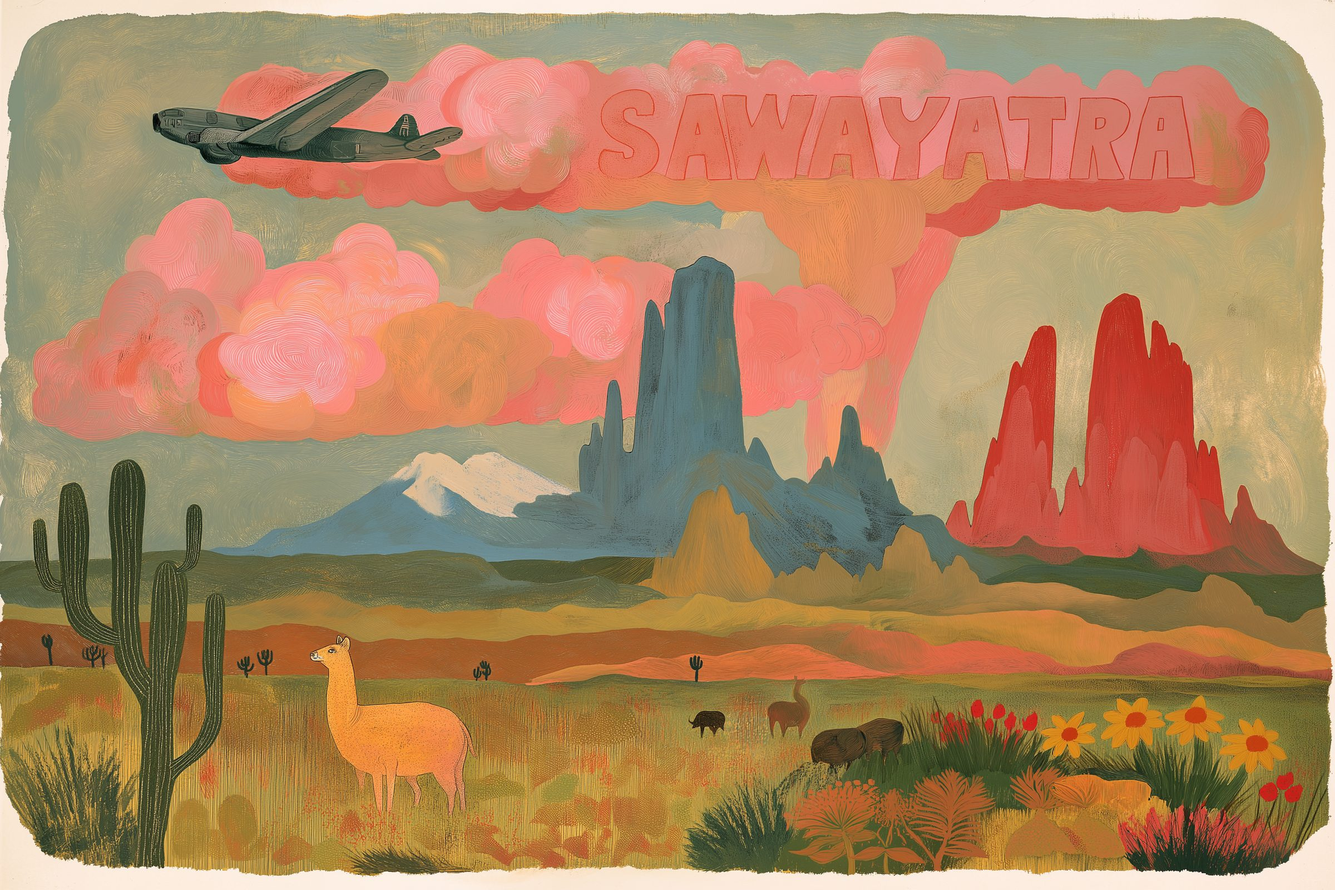
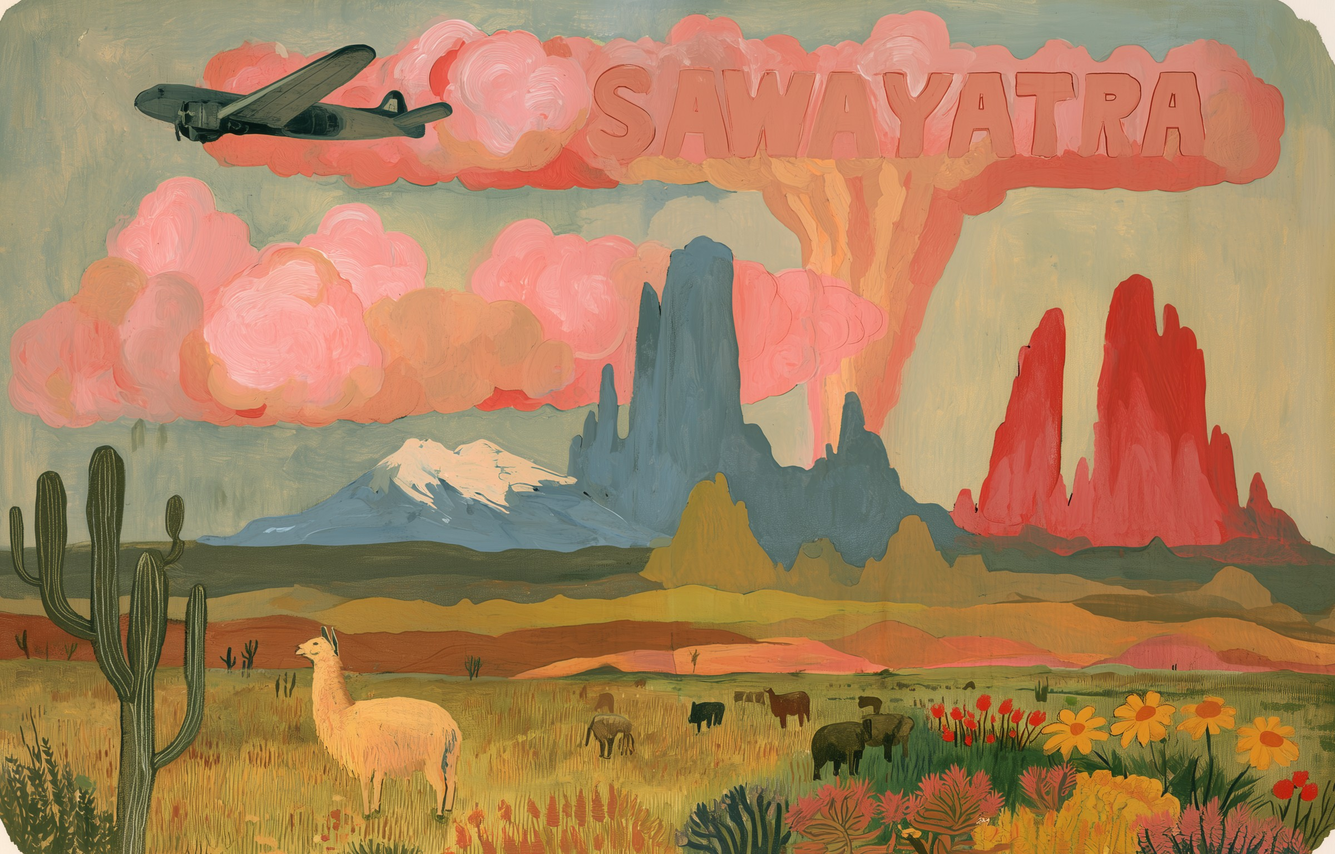
Travel Self hero: new SAWAYATRA painting, shown whole
Replaces the hero artwork with the founder's higher-res SAWAYATRA painting
(optimized web JPG, 2400x1536) and shows it with object-fit: contain on the
paper ground, so the full composition — the word SAWAYATRA, the plane, the
whole scene — is always visible and never cropped. A photo tolerates cover;
this painting does not.

diff --git a/app/(public)/travel-self/travel-self.module.css b/app/(public)/travel-self/travel-self.module.css
@@ -168,10 +168,17 @@
   margin: 0;
   overflow: hidden;
   line-height: 0;
+  background: var(--tsi-paper);
 }
 
+/* Contain, not cover (7 August 2026): the artwork is a composed poster — the
+   word SAWAYATRA and the whole scene — so cropping it to fill (which a photo
+   tolerates) cut the word and the edges and looked sloppy. Shown whole on the
+   paper ground it reads as a framed print, elegant, and nothing is lost at any
+   screen width. This is why it can't share the Departures image treatment: that
+   is a photograph, this is a painting. */
 .travelSelfIntro .introArtwork {
-  object-fit: cover;
+  object-fit: contain;
   object-position: center;
 }
 
